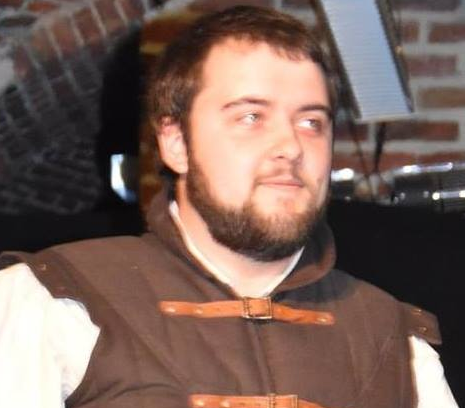
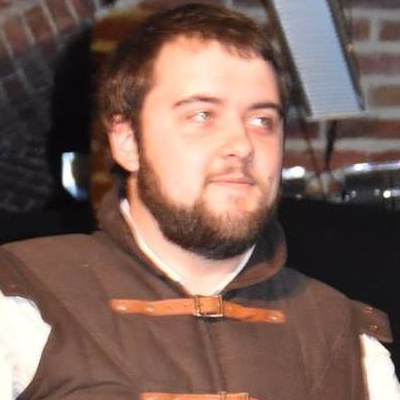
correction affichage photo de profil

diff --git a/html/cv.html b/html/cv.html
@@ -47,7 +47,7 @@
     <div class="container">
       <div class="row">
         <div class="col cv-side">
-          <img src="../img/profil.png" alt="Mon portrait"/>
+          <img id="profil" src="../img/profil.png" alt="Mon portrait"/>
           <h3>À propos</h3>
           <p>
             Actuellement en Master 2 MoCAD à l'Université de Lille,

diff --git a/css/cv.css b/css/cv.css
@@ -13,3 +13,12 @@ div.cv-side {
     padding: 2%;
     margin-right: 0.5cm;
 }
+
+#profil {
+    border-radius: 100%;
+    width: 50%;
+    height: auto;
+    margin-left: auto;
+    margin-right: auto;
+    display: block;
+}
